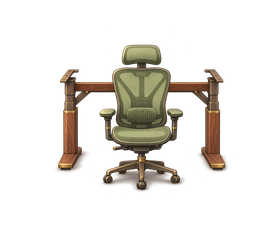
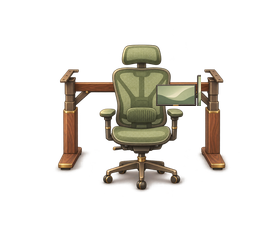
fix(visual): clear gallery header and calibrate sandbox stations

Changed region(s): [[0.5429, 0.2917, 0.7429, 0.4667]]

diff --git a/apps/web/src/vf1.css b/apps/web/src/vf1.css
@@ -170,9 +170,9 @@
 .management-content :is(.project-steps,.project-routes ol){padding-left:20px}.management-content blockquote{margin:12px 0;padding:12px;border-left:3px solid var(--selected-indicator);background:var(--paper)}
 .management-content .ledger-row{gap:12px;font-size:12px;align-items:start}.management-content .ledger-row b{font-size:16px;flex-shrink:0}.management-content .ending-option{padding:12px 0;border-top:1px solid var(--line)}
 .management-content :is(.ending-option img,.ending-art,.world-card img){max-width:100%;border-radius:10px}.management-content .world-card button,.management-content .ending-option button{margin:4px;min-height:44px}
-@media(max-width:899px){.studio-app:is([data-panel=studio],[data-panel=journal]) .studio-drawer{top:116px;bottom:auto;max-height:calc(100dvh - 132px)}}
+@media(max-width:899px){.studio-app:is([data-panel=studio],[data-panel=journal],[data-panel=actors]) .studio-drawer{top:116px;bottom:auto;max-height:calc(100dvh - 132px)}}
 @media(max-width:559px){.management-row{padding:10px;gap:8px}.management-row button{padding:8px 10px}.management-tabs{gap:2px}}
-@media(max-height:479px){.studio-app:is([data-panel=studio],[data-panel=journal]) .studio-drawer{top:64px;bottom:auto;max-height:calc(100dvh - 76px)}.studio-app:is([data-panel=studio],[data-panel=journal]) .drawer-head{padding:6px 12px}}
+@media(max-height:479px){.studio-app:is([data-panel=studio],[data-panel=journal],[data-panel=actors]) .studio-drawer{top:64px;bottom:auto;max-height:calc(100dvh - 76px)}.studio-app:is([data-panel=studio],[data-panel=journal]) .drawer-head{padding:6px 12px}}
 /* VF4-A4: Jobs paper drawer, S2 controls and office tools. */
 .workbench-dialog>.dialog-head button{min-height:44px;height:44px}.workbench-dialog>.dialog-head{min-height:60px}
 @media(max-height:479px){.workbench-dialog .workbench{height:calc(96dvh - 64px)}}
